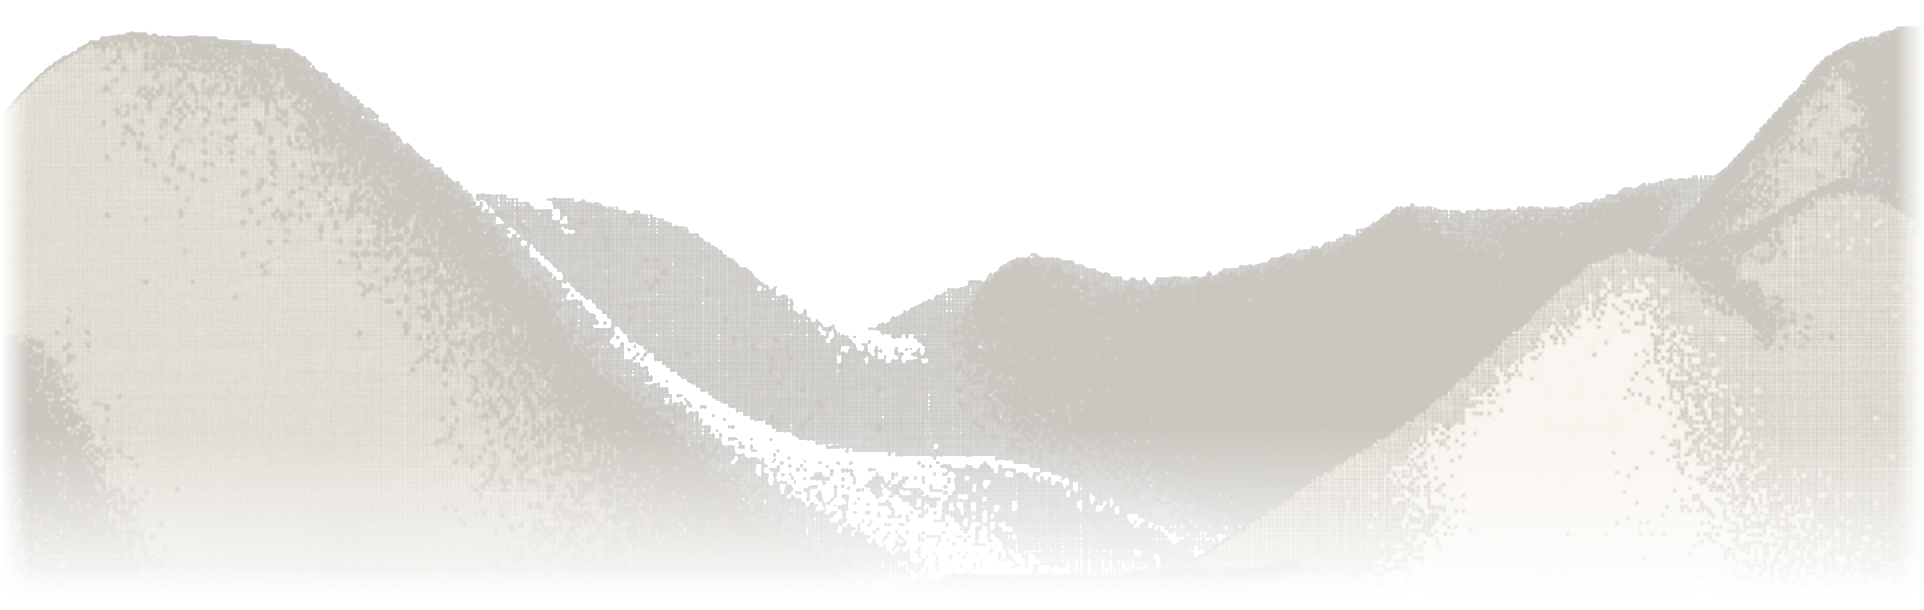
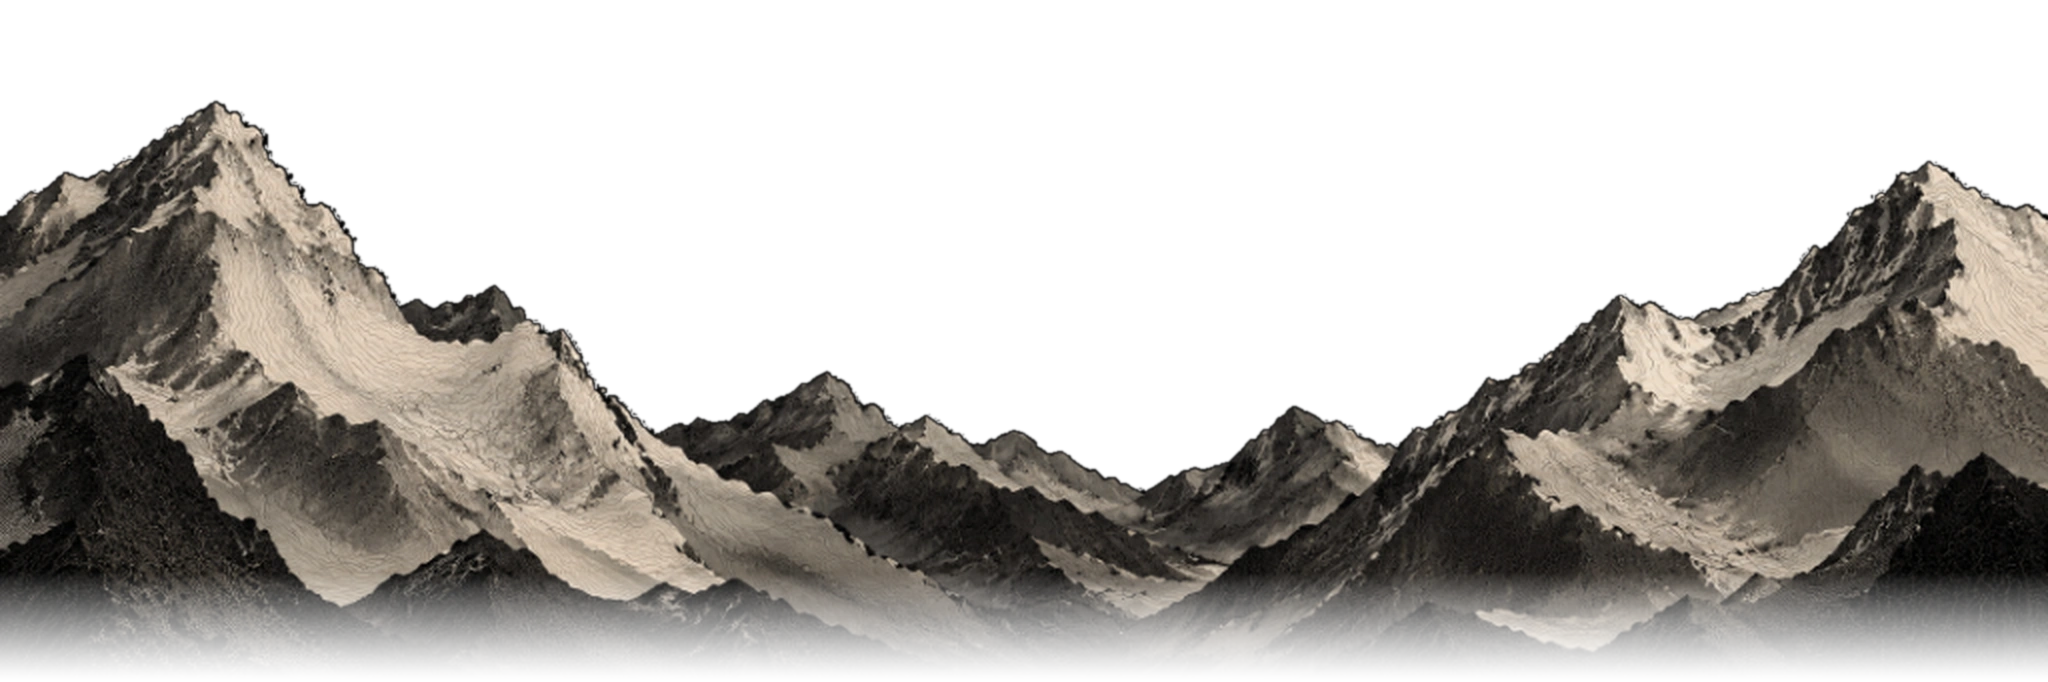
feat(scroll): implement site-wide Lenis smooth scrolling with navbar offset and animation sync

diff --git a/components/layout/smooth-scroll-provider.tsx b/components/layout/smooth-scroll-provider.tsx
@@ -1,0 +1,170 @@
+"use client";
+
+import React, { useEffect, useSyncExternalStore } from "react";
+import { ReactLenis, useLenis } from "lenis/react";
+import "lenis/dist/lenis.css";
+
+// SSR-safe subscription for prefers-reduced-motion
+function subscribeReducedMotion(callback: () => void) {
+  if (typeof window === "undefined") return () => {};
+  const mql = window.matchMedia("(prefers-reduced-motion: reduce)");
+  mql.addEventListener("change", callback);
+  return () => mql.removeEventListener("change", callback);
+}
+
+function getReducedMotionSnapshot() {
+  if (typeof window === "undefined") return false;
+  return window.matchMedia("(prefers-reduced-motion: reduce)").matches;
+}
+
+function getReducedMotionServerSnapshot() {
+  return false;
+}
+
+/**
+ * Navbar Height Constant (Matches var(--navbar-height): 72px)
+ * Used to ensure anchor link targets aren't obscured beneath the sticky header.
+ */
+const NAVBAR_HEIGHT_OFFSET = -72;
+
+/**
+ * Internal Navigation & Anchor Listener
+ * Coordinates in-page anchor links with the single shared Lenis instance.
+ */
+function LenisAnchorHandler() {
+  const lenis = useLenis();
+
+  useEffect(() => {
+    if (!lenis) return;
+
+    // Handle deep-link anchor on initial page load if present in the URL
+    if (typeof window !== "undefined" && window.location.hash) {
+      const hash = window.location.hash;
+      const targetEl = document.querySelector(hash);
+      if (targetEl) {
+        // Defer until initial render and layout dimensions have settled
+        const timer = setTimeout(() => {
+          const isReduced = window.matchMedia(
+            "(prefers-reduced-motion: reduce)"
+          ).matches;
+          lenis.scrollTo(targetEl as HTMLElement, {
+            offset: NAVBAR_HEIGHT_OFFSET,
+            immediate: isReduced,
+            duration: isReduced ? 0 : 0.9,
+          });
+        }, 120);
+        return () => clearTimeout(timer);
+      }
+    }
+
+    const handleAnchorClick = (event: MouseEvent) => {
+      // Ignore modified clicks (Ctrl, Cmd, Shift, Alt, middle-click)
+      if (
+        event.defaultPrevented ||
+        event.button !== 0 ||
+        event.metaKey ||
+        event.ctrlKey ||
+        event.altKey ||
+        event.shiftKey
+      ) {
+        return;
+      }
+
+      // Find closest anchor tag within the composed path
+      const anchor = (event.target as HTMLElement)?.closest?.("a");
+      if (!anchor) return;
+
+      const rawHref = anchor.getAttribute("href");
+      if (!rawHref) return;
+
+      const isReduced = window.matchMedia(
+        "(prefers-reduced-motion: reduce)"
+      ).matches;
+
+      // Case 1: "Back to top" link (href="#" or href="/#")
+      if (rawHref === "#" || rawHref === "/#") {
+        event.preventDefault();
+        lenis.scrollTo(0, {
+          offset: 0,
+          duration: isReduced ? 0 : 1.0,
+          immediate: isReduced,
+        });
+        history.pushState(null, "", window.location.pathname);
+        return;
+      }
+
+      // Case 2: In-page hash link (e.g. href="#deployment-experience")
+      if (rawHref.startsWith("#") && rawHref.length > 1) {
+        const targetId = rawHref.slice(1);
+        const targetEl = document.getElementById(targetId);
+        if (targetEl) {
+          event.preventDefault();
+          lenis.scrollTo(targetEl, {
+            offset: NAVBAR_HEIGHT_OFFSET,
+            duration: isReduced ? 0 : 1.1,
+            immediate: isReduced,
+          });
+          history.pushState(null, "", rawHref);
+        }
+      }
+    };
+
+    // Attach click listener at the document level with capture
+    document.addEventListener("click", handleAnchorClick, { capture: true });
+    return () => {
+      document.removeEventListener("click", handleAnchorClick, {
+        capture: true,
+      });
+    };
+  }, [lenis]);
+
+  return null;
+}
+
+export interface SmoothScrollProviderProps {
+  children: React.ReactNode;
+}
+
+/**
+ * Site-wide Smooth Scroll Provider powered by Lenis
+ *
+ * Requirements & Characteristics:
+ * 1. Single shared Lenis instance at the application root level.
+ * 2. Tuned for a restrained, premium feel on MacBook trackpads (lerp: 0.095, no forced duration).
+ * 3. Preserves native momentum scrolling on mobile devices (syncTouch: false).
+ * 4. Respects `prefers-reduced-motion` dynamically with instant fallback.
+ * 5. Handles sticky navbar offset (-72px) for all in-page anchors and back-to-top links.
+ * 6. Clean lifecycle management preventing duplicate instances during React StrictMode.
+ */
+export function SmoothScrollProvider({ children }: SmoothScrollProviderProps) {
+  const isReducedMotion = useSyncExternalStore(
+    subscribeReducedMotion,
+    getReducedMotionSnapshot,
+    getReducedMotionServerSnapshot
+  );
+
+  return (
+    <ReactLenis
+      root
+      options={{
+        // Damping factor: 0.095 provides crisp, controlled response without sluggish inertia
+        lerp: isReducedMotion ? 1 : 0.095,
+        // Leave duration undefined so trackpad gestures feel natural and direct
+        smoothWheel: !isReducedMotion,
+        // Native touch on mobile: preserves 120Hz inertial physics without lag
+        syncTouch: false,
+        wheelMultiplier: 1.0,
+        touchMultiplier: 1.0,
+        autoRaf: true,
+        stopInertiaOnNavigate: true,
+        respectReducedMotion: true,
+      }}
+    >
+      <LenisAnchorHandler />
+      {children}
+    </ReactLenis>
+  );
+}
+
+export { useLenis };
+export default SmoothScrollProvider;

diff --git a/components/home/final-cta.tsx b/components/home/final-cta.tsx
@@ -259,17 +259,11 @@ export function FinalCta() {
         return;
       }
 
-      // Dignified progression velocity cap
-      const maxVelocity = 0.85;
-      const maxStep = maxVelocity * dt;
+      // Synchronized interpolation that tracks Lenis smooth scroll curvature without secondary lag
+      const lerpRate = 18.0;
+      const step = diff * (1 - Math.exp(-lerpRate * dt));
 
-      // Exponential decay damping
-      const lerpRate = 4.2;
-      const rawStep = diff * (1 - Math.exp(-lerpRate * dt));
-      const clampedStep =
-        Math.sign(rawStep) * Math.min(Math.abs(rawStep), maxStep);
-
-      currentP += clampedStep;
+      currentP += step;
       render(currentP, now);
       rafId = requestAnimationFrame(tick);
     };

diff --git a/app/layout.tsx b/app/layout.tsx
@@ -1,6 +1,7 @@
 import type { Metadata, Viewport } from "next";
 import { Space_Grotesk, Geist_Mono } from "next/font/google";
 import { BRAND } from "@/lib/brand";
+import { SmoothScrollProvider } from "@/components/layout/smooth-scroll-provider";
 import "./globals.css";
 
 const spaceGrotesk = Space_Grotesk({
@@ -41,7 +42,9 @@ export default function RootLayout({
       className={`${spaceGrotesk.variable} ${geistMono.variable} dark`}
     >
       <body className="min-h-screen bg-bg-main text-text-primary font-sans antialiased selection:bg-accent-orange/25 selection:text-text-primary">
-        {children}
+        <SmoothScrollProvider>
+          {children}
+        </SmoothScrollProvider>
       </body>
     </html>
   );

diff --git a/components/layout/navbar.tsx b/components/layout/navbar.tsx
@@ -148,6 +148,7 @@ function MobileMenu({ isOpen, onClose }: MobileMenuProps) {
       {isOpen && (
         <motion.div
           id="mobile-navigation"
+          data-lenis-prevent
           role="dialog"
           aria-modal="true"
           aria-label="Mobile navigation menu"
